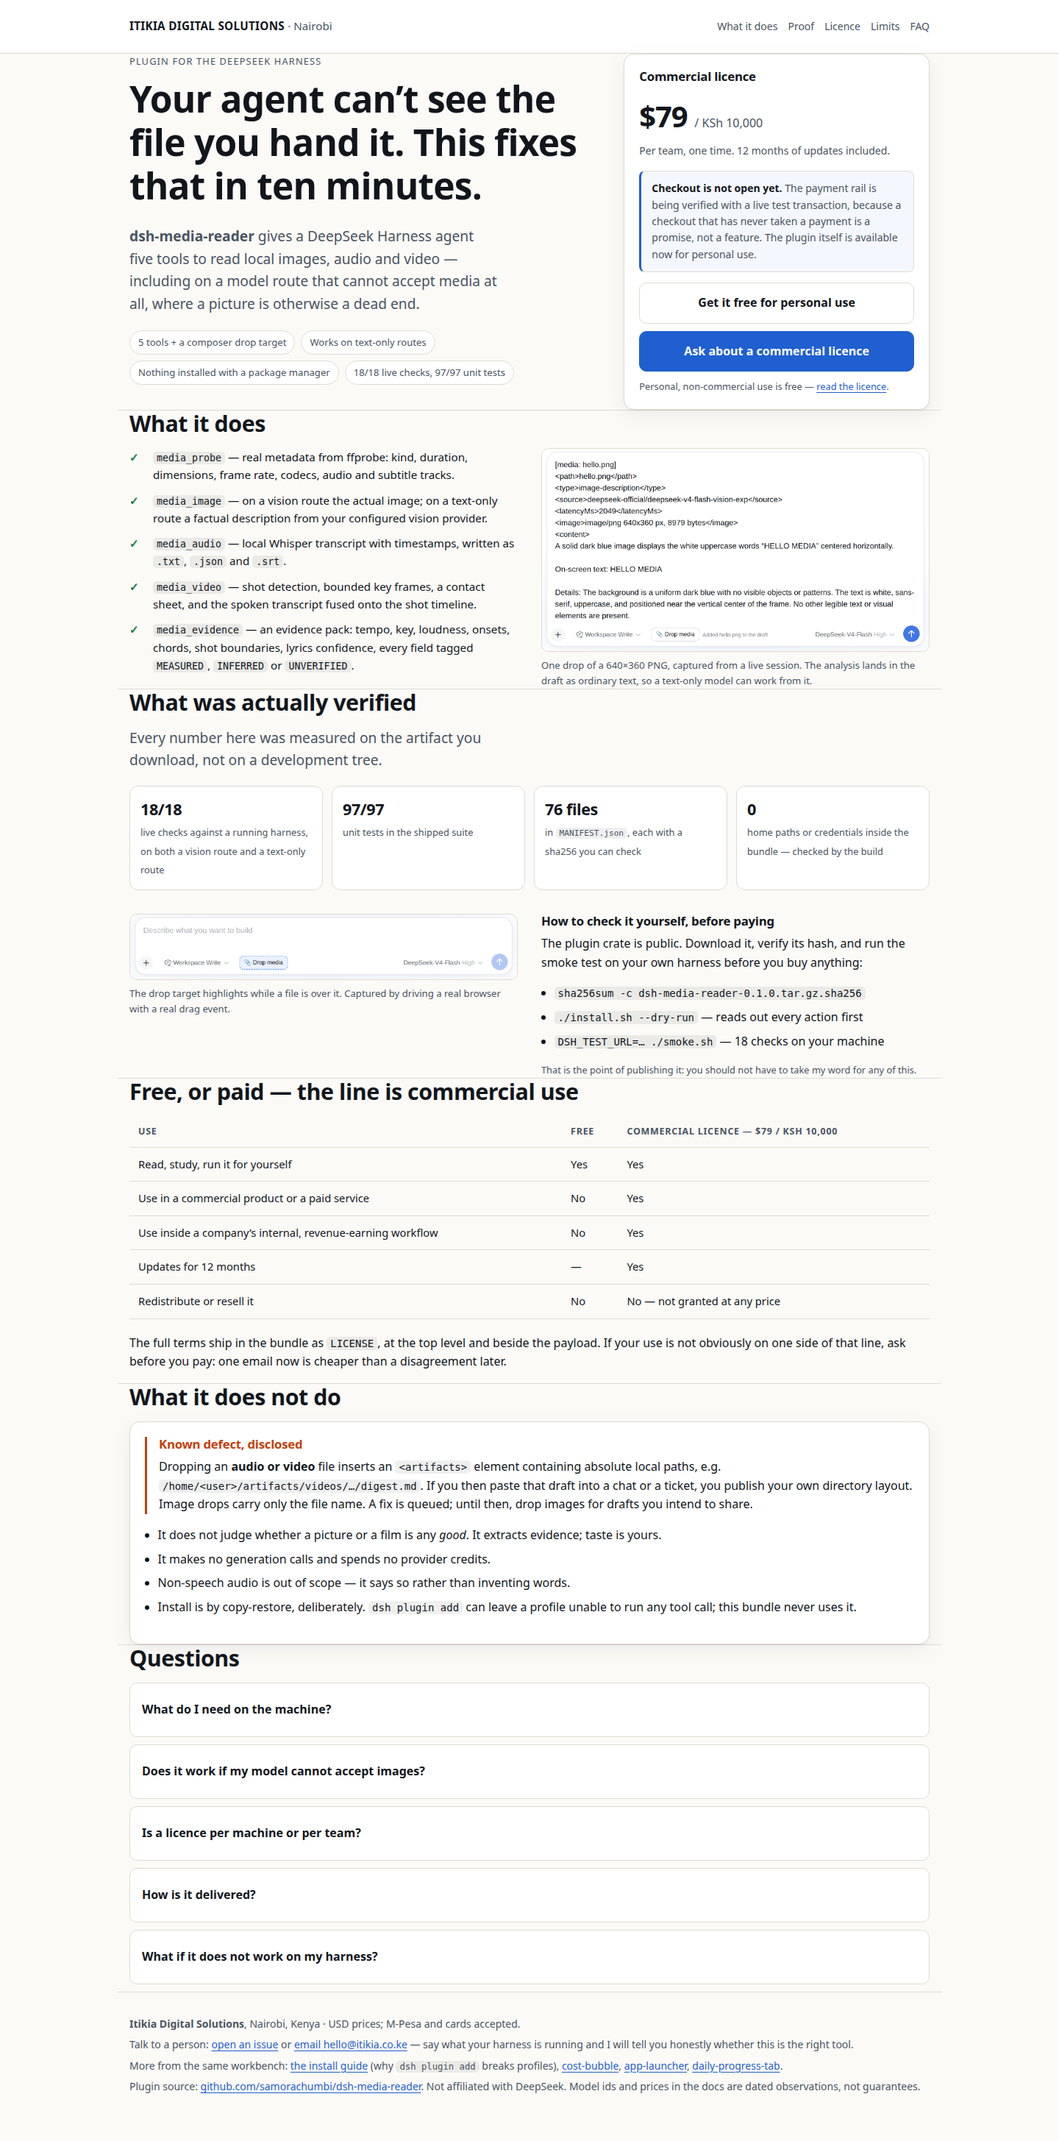
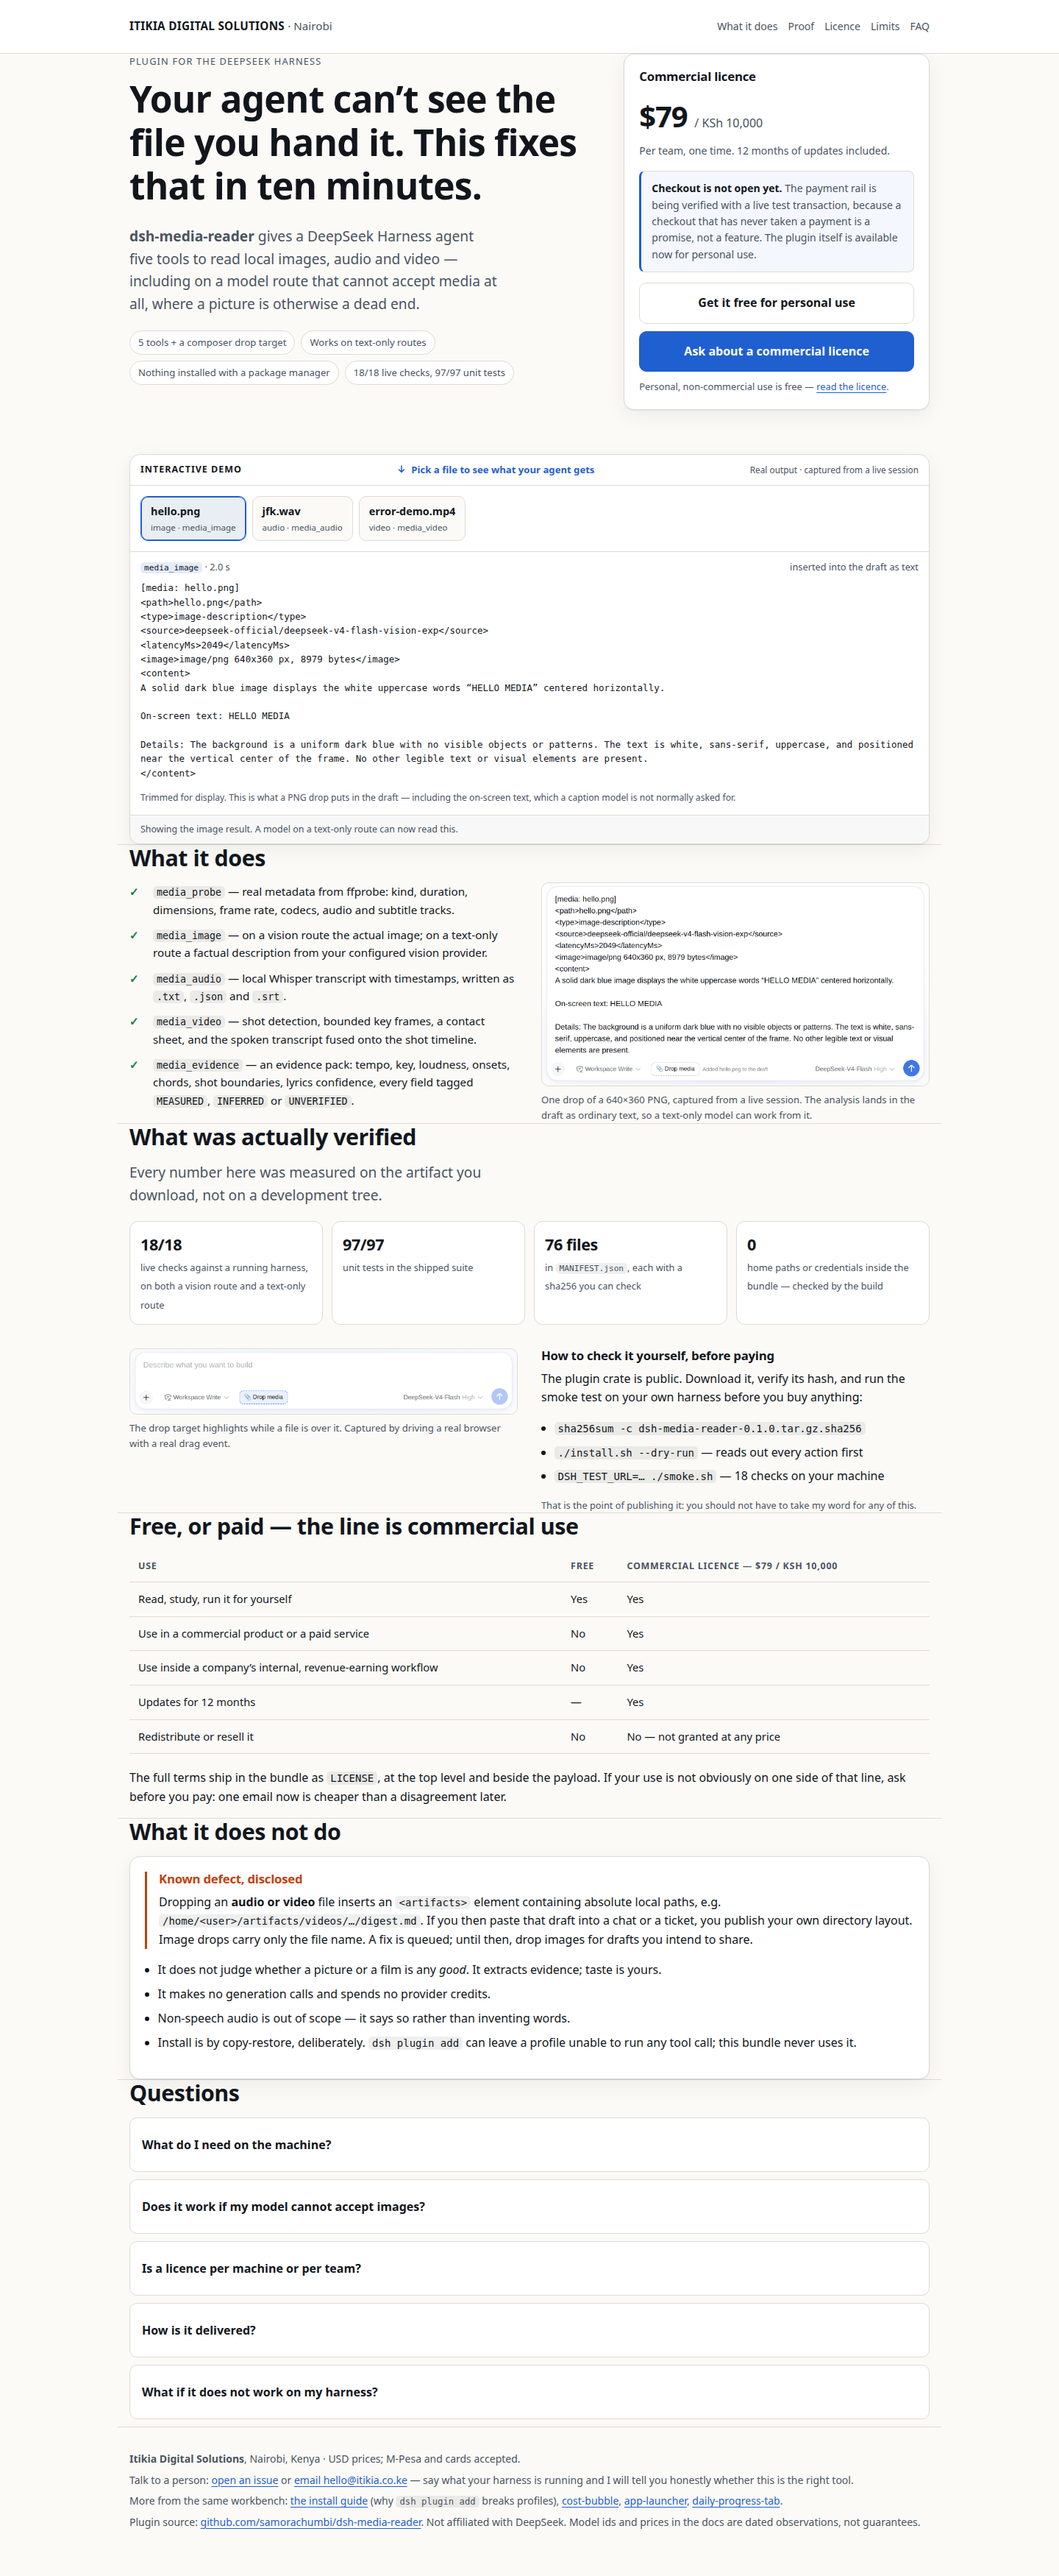
Hero: an interactive demo, after the approved Itikia pattern
The page described what the plugin does; it did not let a visitor SEE it. The hero now carries a
`<figure id="demo">` in the same shape as the approved Itikia hero: a visible cue ("Pick a file to see
what your agent gets"), a provenance line, real `<button>`s with `aria-pressed`, and a `role="status"`
region that speaks the result.

Three files, three tools, each showing the block the plugin actually inserted into the composer draft on
this machine — hello.png / media_image, jfk.wav / media_audio, error-demo.mp4 / media_video. Nothing is
re-typed prose: the text is captured output, with absolute paths shown as bare file names and a note
saying the blocks are trimmed.

Verified by driving the buttons with real mouse events and reading the DOM back — a click is not
evidence, the changed result is: `media_image` → 593 chars starting `[media: hello.png]`, `media_audio` →
495 chars `[media: jfk.wav]`, `media_video` → 856 chars `[media: error-demo.mp4]`, exactly one
`aria-pressed` button each time. Buttons are 61 px tall; no horizontal overflow at 1440 or 390.

Two defects caught by looking rather than measuring:
- the demo landed in the hero's FIRST grid column, leaving an empty band under the buy card — it now
  spans `1 / -1` at >= 900 px;
- the panel had `max-height: 340px; overflow: auto`, which on a phone cut the block mid-sentence with no
  scroll affordance, so it read as a broken layout. The cap is gone; the whole block shows.
[…]

Changed region(s): [[0.125, 0.0, 0.875, 0.9897], [0.5938, 0.0, 0.875, 0.1856]]

diff --git a/store/index.html b/store/index.html
@@ -137,8 +137,57 @@
 
   @media (min-width: 900px) {
     .hero { grid-template-columns: 1.55fr 1fr; align-items: start; }
+    /* the demo is a full-width band under the text and the buy card, not a third cell */
+    .hero > .hero-demo { grid-column: 1 / -1; }
     .two-col { display: grid; grid-template-columns: 1fr 1fr; gap: 32px; }
   }
+  /* ---- interactive demo (pattern from the approved Itikia hero) ---- */
+  .hero-demo { margin: 32px 0 0; }
+  .demo-shell { background: var(--card); border: 1px solid var(--line); border-radius: 14px; box-shadow: var(--shadow); overflow: hidden; }
+  .demo-topline {
+    display: flex; flex-wrap: wrap; gap: 8px 14px; align-items: center; justify-content: space-between;
+    padding: 10px 14px; border-bottom: 1px solid var(--line);
+    font-size: .78rem; letter-spacing: .04em; text-transform: uppercase; color: var(--ink-soft);
+  }
+  .demo-topline strong { color: var(--ink); letter-spacing: .08em; }
+  .demo-cue { display: inline-flex; align-items: center; gap: 7px; color: var(--accent); font-weight: 650; letter-spacing: 0; text-transform: none; font-size: .82rem; }
+  .demo-cue svg { flex: none; }
+  .demo-provenance { font-size: .74rem; letter-spacing: 0; text-transform: none; }
+
+  .demo-files { display: flex; flex-wrap: wrap; gap: 8px; padding: 14px; border-bottom: 1px solid var(--line); }
+  .demo-file {
+    display: inline-flex; flex-direction: column; align-items: flex-start; gap: 2px;
+    min-height: 48px; padding: 8px 13px; text-align: left;
+    font: inherit; font-size: .9rem; font-weight: 600; color: var(--ink);
+    background: var(--paper); border: 1px solid var(--line); border-radius: 10px; cursor: pointer;
+  }
+  .demo-file small { font-size: .72rem; font-weight: 500; color: var(--ink-soft); }
+  .demo-file[aria-pressed="true"] { border-color: var(--accent); box-shadow: inset 0 0 0 1px var(--accent); background: color-mix(in srgb, var(--accent) 8%, var(--paper)); }
+  .demo-file:hover { border-color: var(--accent); }
+  .demo-file:focus-visible { outline: 3px solid var(--accent); outline-offset: 2px; }
+
+  .demo-stage { padding: 0; }
+  .demo-stage-head {
+    display: flex; flex-wrap: wrap; gap: 4px 10px; align-items: baseline; justify-content: space-between;
+    padding: 10px 14px 0; font-size: .8rem; color: var(--ink-soft);
+  }
+  .demo-stage-head code { background: color-mix(in srgb, var(--accent) 12%, transparent); color: var(--ink); }
+  .demo-pre {
+    /* no max-height: a clipped block with no scroll affordance reads as a broken layout */
+    margin: 8px 0 0; padding: 0 14px 14px;
+    font-family: ui-monospace, SFMono-Regular, Menlo, monospace; font-size: .78rem; line-height: 1.55;
+    white-space: pre-wrap; overflow-wrap: anywhere; color: var(--ink);
+  }
+  .demo-note { padding: 0 14px 14px; margin: 0; font-size: .76rem; color: var(--ink-soft); }
+  .demo-status {
+    display: block; min-height: 1.2em; padding: 9px 14px; border-top: 1px solid var(--line);
+    font-size: .78rem; color: var(--ink-soft); background: color-mix(in srgb, var(--ink) 3%, var(--card));
+  }
+  @media (prefers-reduced-motion: no-preference) {
+    .demo-pre, .demo-stage-head { transition: opacity .18s ease; }
+    .demo-stage[data-state="working"] .demo-pre { opacity: .35; }
+  }
+
   @media (prefers-reduced-motion: reduce) { * { transition: none !important; animation: none !important; } }
 </style>
 </head>
@@ -193,6 +242,54 @@
         <a id="free-link" href="#licence">read the licence</a>.
       </p>
     </aside>
+
+      <figure class="hero-demo" id="demo" aria-labelledby="demo-title">
+        <div class="demo-shell">
+          <div class="demo-topline">
+            <span><strong id="demo-title">Interactive demo</strong></span>
+            <span class="demo-cue">
+              <svg width="12" height="12" viewBox="0 0 12 12" aria-hidden="true" focusable="false"><path d="M6 1v8M2.5 6 6 9.5 9.5 6" fill="none" stroke="currentColor" stroke-width="1.6" stroke-linecap="round" stroke-linejoin="round"/></svg>
+              Pick a file to see what your agent gets
+            </span>
+            <span class="demo-provenance">Real output · captured from a live session</span>
+          </div>
+
+          <div class="demo-files" role="group" aria-label="Choose a file to analyse">
+            <button type="button" class="demo-file" data-demo="image" aria-pressed="true">
+              hello.png <small>image · media_image</small>
+            </button>
+            <button type="button" class="demo-file" data-demo="audio" aria-pressed="false">
+              jfk.wav <small>audio · media_audio</small>
+            </button>
+            <button type="button" class="demo-file" data-demo="video" aria-pressed="false">
+              error-demo.mp4 <small>video · media_video</small>
+            </button>
+          </div>
+
+          <div class="demo-stage" data-demo-stage data-state="idle">
+            <div class="demo-stage-head">
+              <span><code data-demo-tool>media_image</code> <span data-demo-timing>· 2.0 s</span></span>
+              <span>inserted into the draft as text</span>
+            </div>
+            <pre class="demo-pre" data-demo-body id="demo-body">[media: hello.png]
+&lt;path&gt;hello.png&lt;/path&gt;
+&lt;type&gt;image-description&lt;/type&gt;
+&lt;source&gt;deepseek-official/deepseek-v4-flash-vision-exp&lt;/source&gt;
+&lt;latencyMs&gt;2049&lt;/latencyMs&gt;
+&lt;image&gt;image/png 640x360 px, 8979 bytes&lt;/image&gt;
+&lt;content&gt;
+A solid dark blue image displays the white uppercase words “HELLO MEDIA” centered horizontally.
+
+On-screen text: HELLO MEDIA
+
+Details: The background is a uniform dark blue with no visible objects or patterns. The text is white, sans-serif, uppercase, and positioned near the vertical center of the frame. No other legible text or visual elements are present.
+&lt;/content&gt;</pre>
+            <p class="demo-note" data-demo-note>Trimmed for display; long file paths shown as names. Nothing here is typed by hand — the text is the output the plugin produced on this machine.</p>
+            <span class="demo-status" data-demo-status role="status" aria-live="polite">Showing the image result. A model on a text-only route can now read this.</span>
+          </div>
+        </div>
+      </figure>
+
   </section>
 
   <section id="what" class="wrap" aria-labelledby="what-h">
@@ -384,6 +481,121 @@
     n.textContent = m.note;
     area.appendChild(n);
   });
+})();
+</script>
+<script>
+// Interactive demo for the storefront. The text below is the plugin's OWN output, captured from a
+// live session on this machine; long absolute paths are shown as bare file names and the blocks are
+// trimmed for display. Nothing here is re-typed prose.
+(function () {
+  var LABEL = { image: 'image', audio: 'audio', video: 'video' };
+
+  var DEMOS = {
+    image: {
+      tool: 'media_image', seconds: '2.0 s',
+      note: 'Trimmed for display. This is what a PNG drop puts in the draft — including the on-screen text, which a caption model is not normally asked for.',
+      status: 'Showing the image result. A model on a text-only route can now read this.',
+      body: [
+        '[media: hello.png]',
+        '<path>hello.png</path>',
+        '<type>image-description</type>',
+        '<source>deepseek-official/deepseek-v4-flash-vision-exp</source>',
+        '<latencyMs>2049</latencyMs>',
+        '<image>image/png 640x360 px, 8979 bytes</image>',
+        '<content>',
+        'A solid dark blue image displays the white uppercase words \u201CHELLO MEDIA\u201D centered horizontally.',
+        '',
+        'On-screen text: HELLO MEDIA',
+        '',
+        'Details: The background is a uniform dark blue with no visible objects or patterns. The text is white, sans-serif, uppercase, and positioned near the vertical center of the frame. No other legible text or visual elements are present.',
+        '</content>'
+      ].join('\n')
+    },
+    audio: {
+      tool: 'media_audio', seconds: '12.6 s',
+      note: 'Trimmed for display; transcript file paths shown as names. Transcription ran locally — no audio bytes were sent to a model.',
+      status: 'Showing the audio result: a local transcript, with timestamps, inserted as text.',
+      body: [
+        '[media: jfk.wav]',
+        '<path>jfk.wav</path>',
+        '<type>audio-transcript</type>',
+        '<processor>faster-whisper base int8 (local)</processor>',
+        '<language>en (p=0.94)</language>',
+        '<durationSeconds>11.00</durationSeconds>',
+        '<realTimeFactor>1.08</realTimeFactor>',
+        '<artifacts>{"transcriptTxt":"jfk.wav/transcript.txt","transcriptSrt":"jfk.wav/transcript.srt"}</artifacts>',
+        '<content>',
+        '[0.00-7.58] And so my fellow Americans ask not what your country can do for you,',
+        '[7.58-10.58] ask what you can do for your country.',
+        '</content>'
+      ].join('\n')
+    },
+    video: {
+      tool: 'media_video', seconds: '17.5 s',
+      note: 'Trimmed for display; artifact paths shown as names. Shots, frames, the contact sheet and the transcript timeline are all produced from the file itself.',
+      status: 'Showing the video result: detected shots, the spoken transcript fused to the shot timeline, and a described contact sheet.',
+      body: [
+        '[media: error-demo.mp4]',
+        '<path>error-demo.mp4</path>',
+        '<type>video-digest</type>',
+        '<durationSeconds>11.00</durationSeconds>',
+        '<shots>2</shots>',
+        '<artifacts>{"digest":"error-demo.mp4/digest.md","contactSheet":"error-demo.mp4/contact-sheet.png","frames":["error-demo.mp4/frames/shot-01.png","error-demo.mp4/frames/shot-02.png"]}</artifacts>',
+        '<timeline>',
+        '[00:00:00.000-00:00:05.500] shot-01.png',
+        '  on screen: not described; call media_image on the frame path for detail',
+        '  said: And so my fellow Americans ask not what your country can do for you,',
+        '[00:00:05.500-00:00:11.000] shot-02.png',
+        '  said: ask what you can do for your country.',
+        '</timeline>',
+        '<transcript>local faster-whisper base int8; language en; realTimeFactor 1.07</transcript>',
+        '<visual>contact sheet \u2014 A black rectangular image displays the red text "ERROR 42" near the left side. On-screen text: ERROR 42</visual>'
+      ].join('\n')
+    }
+  };
+
+  var buttons = Array.prototype.slice.call(document.querySelectorAll('[data-demo]'));
+  var stage = document.querySelector('[data-demo-stage]');
+  var toolEl = document.querySelector('[data-demo-tool]');
+  var timeEl = document.querySelector('[data-demo-timing]');
+  var bodyEl = document.querySelector('[data-demo-body]');
+  var noteEl = document.querySelector('[data-demo-note]');
+  var statusEl = document.querySelector('[data-demo-status]');
+  if (buttons.length === 0 || !stage || !bodyEl) return;
+
+  var reduced = window.matchMedia('(prefers-reduced-motion: reduce)').matches;
+  var timer = null;
+
+  function render(key, { announce } = { announce: true }) {
+    var d = DEMOS[key];
+    if (!d) return;
+
+    buttons.forEach(function (b) {
+      b.setAttribute('aria-pressed', b.getAttribute('data-demo') === key ? 'true' : 'false');
+    });
+    toolEl.textContent = d.tool;
+    timeEl.textContent = '\u00b7 ' + d.seconds;
+    stage.setAttribute('data-state', 'working');
+    if (announce) statusEl.textContent = 'Analysing the ' + LABEL[key] + ' file with ' + d.tool + '\u2026';
+
+    var paint = function () {
+      bodyEl.textContent = d.body;
+      noteEl.textContent = d.note;
+      stage.setAttribute('data-state', 'done');
+      statusEl.textContent = d.status;
+    };
+
+    if (timer) { clearTimeout(timer); timer = null; }
+    if (reduced) { paint(); return; }
+    timer = setTimeout(paint, 700);
+  }
+
+  buttons.forEach(function (b) {
+    b.addEventListener('click', function () { render(b.getAttribute('data-demo')); });
+  });
+
+  // the markup already shows the image result, so a reader with scripting off still sees a real one
+  render('image', { announce: false });
 })();
 </script>
 </body>

diff --git a/store/evidence/MANIFEST.md b/store/evidence/MANIFEST.md
@@ -6,10 +6,10 @@ was committed with. Full-page captures, lazy images forced to load first.
 
 | file | viewport | page height | horizontal overflow | images |
 |---|---|---|---|---|
-| `page-320.png` | 320 × 900 | 5985 px | none | 2/2 loaded |
-| `page-390.png` | 390 × 900 | 5186 px | none | 2/2 loaded |
-| `page-768.png` | 768 × 900 | 4044 px | none | 2/2 loaded |
-| `page-1440.png` | 1440 × 900 | 2910 px | none | 2/2 loaded |
+| `page-320.png` | 320 × 900 | 7106 px | none | 2/2 loaded |
+| `page-390.png` | 390 × 900 | 6114 px | none | 2/2 loaded |
+| `page-768.png` | 768 × 900 | 4693 px | none | 2/2 loaded |
+| `page-1440.png` | 1440 × 900 | 3500 px | none | 2/2 loaded |
 
 The PNG's own pixel height equals the page height in this table — checked with `ffprobe`, because an
 earlier capture pass wrote 900 px strips while its console cheerfully printed "done". The cause was a
@@ -65,3 +65,28 @@ checkout works: no rail has taken a payment yet.
 Before the fix, the whole buy area was script-rendered, so with JavaScript off the only calls to action on
 a sales page disappeared. The markup now carries the fallback and the script clears the area before
 repainting.
+
+## The interactive demo in the hero (added after the images above)
+
+`#demo` is a `<figure>` inside the hero section, following the pattern approved on the Itikia site: a
+visible cue ("Pick a file to see what your agent gets"), a provenance line ("Real output · captured from
+a live session"), real `<button>`s with `aria-pressed`, and a `role="status"` region that announces the
+result. Three files, three tools, each showing the block the plugin actually inserted into the composer
+draft on this machine.
+
+Driven with **real mouse events** (`Input.dispatchMouseEvent`) at each button's centre, then the DOM was
+read back — a click is not evidence, the changed result is:
+
+| click | tool line | first line of the panel | characters | `aria-pressed` |
+|---|---|---|---|---|
+| hello.png | `media_image` | `[media: hello.png]` | 593 | exactly one pressed |
+| jfk.wav | `media_audio` | `[media: jfk.wav]` | 495 | exactly one pressed |
+| error-demo.mp4 | `media_video` | `[media: error-demo.mp4]` | 856 | exactly one pressed |
+
+Button sizes at 1440 and 390 px: 61 px tall (the minimum is 44). No horizontal overflow at either width.
+With scripting off the markup already shows the image result, so the demo degrades to a real example
+rather than an empty panel.
+
+**What the demo does not prove:** that a dropped file behaves identically on your harness — the text is a
+captured record, not a live analysis on the visitor's machine. Paths in the audio and video blocks are
+shown as bare file names, and each block is trimmed; the note under the panel says both.
